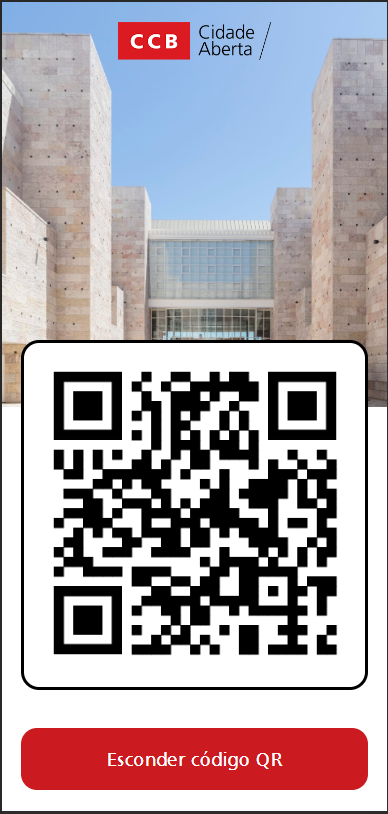
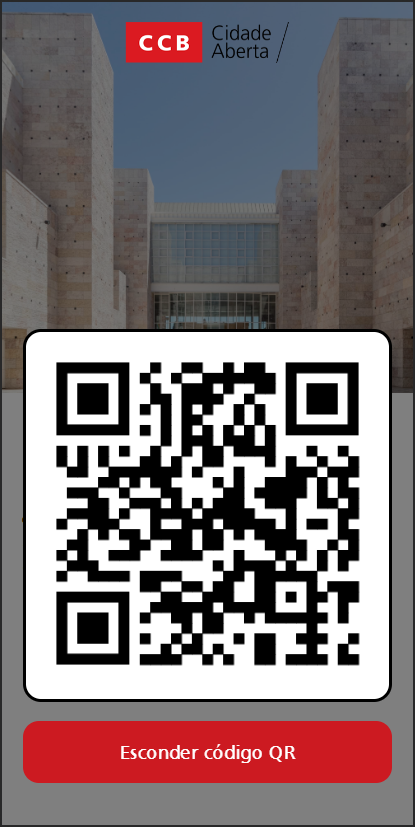
Added covering element behind appearing QR Code.

diff --git a/css/main.css b/css/main.css
@@ -135,10 +135,11 @@ section {
       border-radius: 16px;
       border: none;
       position: absolute;
-      bottom: 0; }
+      bottom: 0;
+      z-index: 1; }
       .welcome-info article button:hover {
         background-color: #CC1A21; }
-    .welcome-info article div {
+    .welcome-info article .qrcode {
       text-align: center;
       background-color: white;
       border: solid 3px #000;
@@ -146,15 +147,28 @@ section {
       position: fixed;
       bottom: -50%;
       padding: 5%;
-      width: 90%; }
-      .welcome-info article div img {
+      width: 90%;
+      z-index: 1; }
+      .welcome-info article .qrcode img {
         margin: auto;
         width: 100%; }
+    .welcome-info article .cover-screen {
+      position: fixed;
+      top: 0;
+      left: 0;
+      border-radius: 0;
+      border: none;
+      height: 100%;
+      width: 100%;
+      background-color: rgba(0, 0, 0, 0.5); }
     .welcome-info article .qr-up {
       bottom: 15%;
       transition: bottom 0.8s ease; }
     .welcome-info article .qr-down {
       bottom: -50%;
       transition: bottom 0.8s ease; }
+
+.hidden {
+  display: none; }
 
 /*# sourceMappingURL=main.css.map */

diff --git a/scss/_welcome.scss b/scss/_welcome.scss
@@ -57,12 +57,13 @@ section {
             border:none;
             position:absolute;
             bottom:0;
+            z-index:1;
 
             &:hover {
                 background-color:#CC1A21;
             }
         }
-        div {
+        .qrcode {
             text-align:center;
             background-color:white;
             border:solid 3px #000;
@@ -71,11 +72,22 @@ section {
             bottom:-50%;
             padding:5%;
             width:90%;
+            z-index:1;
 
             img {
                 margin:auto;
                 width:100%;
             }
+        }
+        .cover-screen {
+            position:fixed;
+            top:0;
+            left:0;
+            border-radius:0;
+            border:none;
+            height:100%;
+            width:100%;
+            background-color: rgba(0,0,0,0.5);
         }
         .qr-up {
             bottom:15%;
@@ -86,4 +98,8 @@ section {
             transition:bottom 0.8s ease;
         }
     }
+}
+
+.hidden {
+    display:none;
 }

diff --git a/js/getQRCode.js b/js/getQRCode.js
@@ -1,14 +1,17 @@
 document.querySelector(".get-qrcode").addEventListener('click',
     function (e) {
         let qrcode = document.querySelector('.qrcode');
+        let cover = document.querySelector('.cover-screen');
         if (qrcode.classList.contains("qr-up")) {
             qrcode.classList.remove("qr-up");
             qrcode.classList.add("qr-down");
+            cover.classList.add('hidden');
             this.innerHTML = 'Gerar Código QR';
         }
         else {
             qrcode.classList.remove("qr-down");
             qrcode.classList.add("qr-up");
+            cover.classList.remove('hidden');
             this.innerHTML = 'Esconder código QR';
         }
     }

diff --git a/index.html b/index.html
@@ -44,6 +44,7 @@
 			<div class="qrcode qr-down">
 				<img src="images/qrcode.png" alt="Código QR, a tua chave da Cidade Aberta.">
 			</div>
+			<div class="cover-screen hidden"></div>
 		</article>
 	</section>
 
